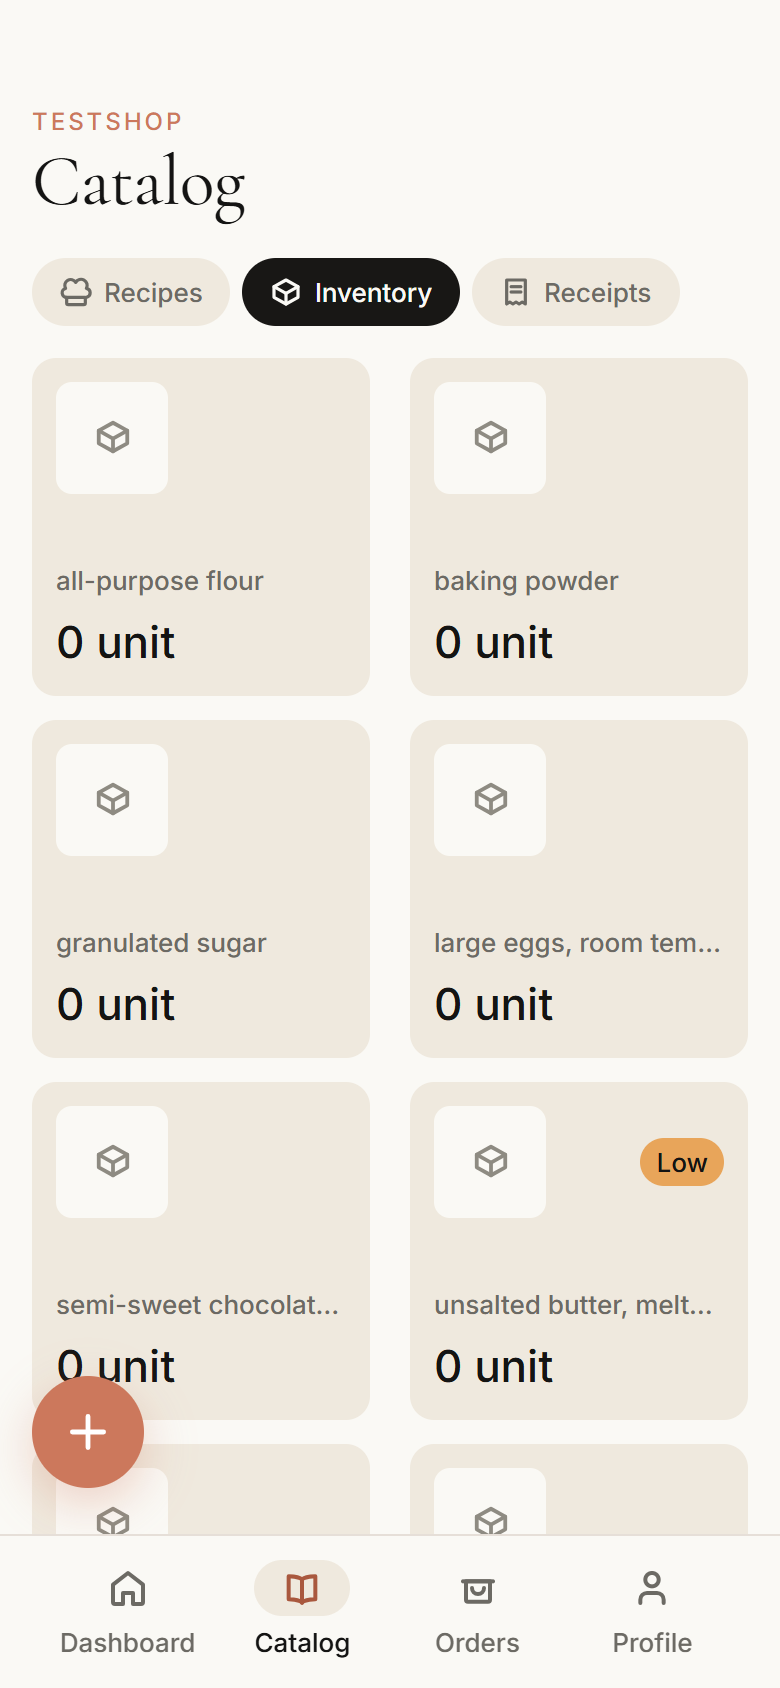
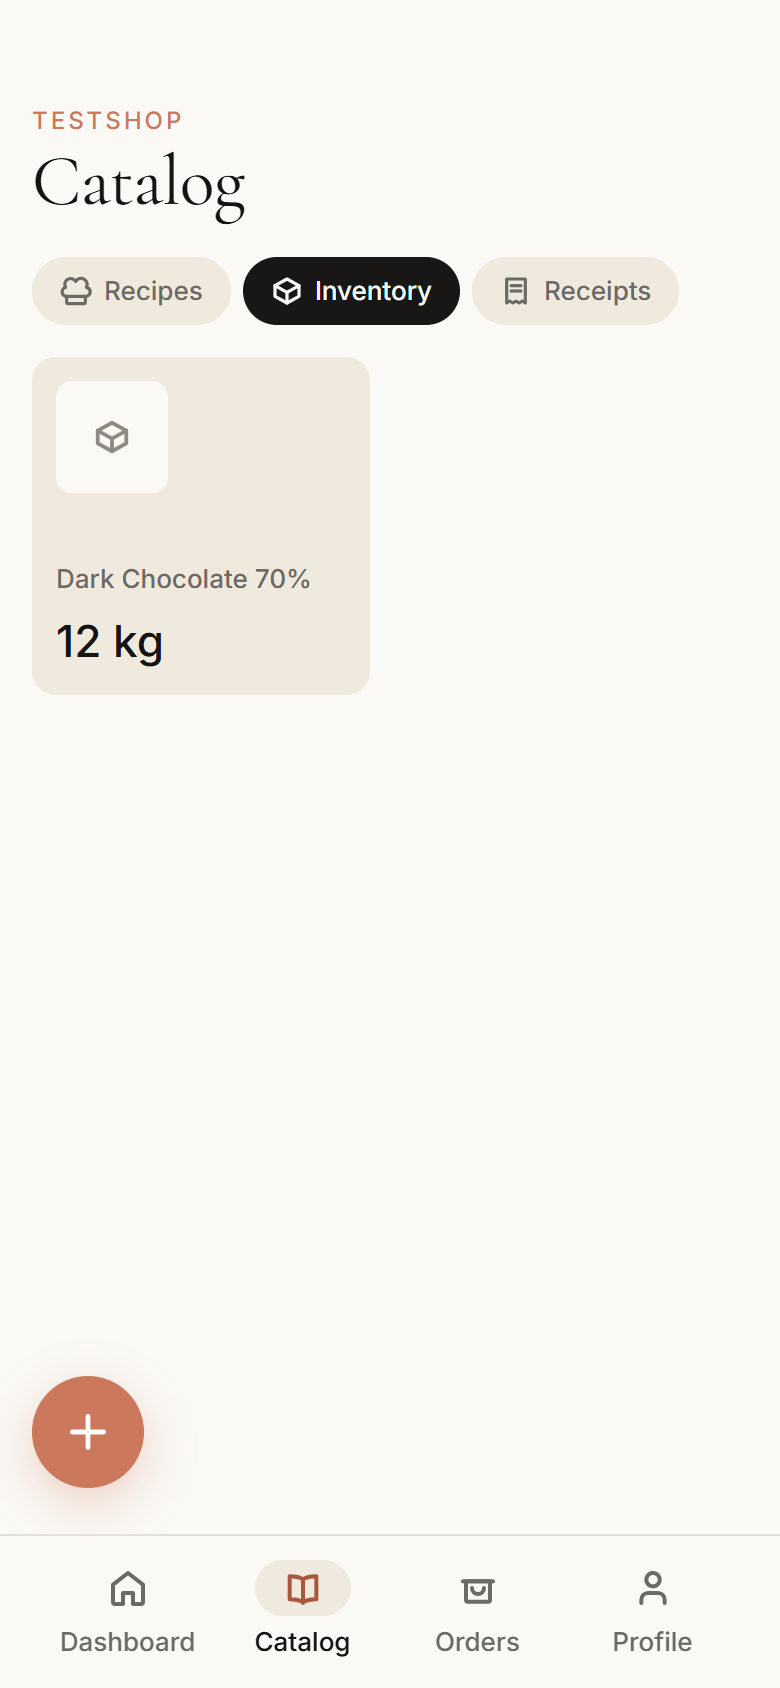
feat(catalog): drop leftover Low badge from inventory card

diff --git a/src/pages/CatalogPage.tsx b/src/pages/CatalogPage.tsx
@@ -256,15 +256,8 @@ export function CatalogPage() {
                   key={item.id}
                   className="flex aspect-square flex-col gap-2 rounded-card bg-surface-card p-3"
                 >
-                  <div className="flex h-14 shrink-0 items-center justify-between">
-                    <div className="flex h-14 w-14 items-center justify-center rounded-input bg-surface-canvas">
-                      <IconBox className="h-[19px] w-[19px] text-ink-muted-soft" />
-                    </div>
-                    {item.isLowStock ? (
-                      <span className="rounded-pill bg-brand-amber px-2 py-[3px] text-label font-medium text-ink">
-                        Low
-                      </span>
-                    ) : null}
+                  <div className="flex h-14 w-14 shrink-0 items-center justify-center rounded-input bg-surface-canvas">
+                    <IconBox className="h-[19px] w-[19px] text-ink-muted-soft" />
                   </div>
                   <div className="h-[18px] shrink-0" aria-hidden="true" />
                   <p className="truncate text-label font-medium text-ink-muted">
